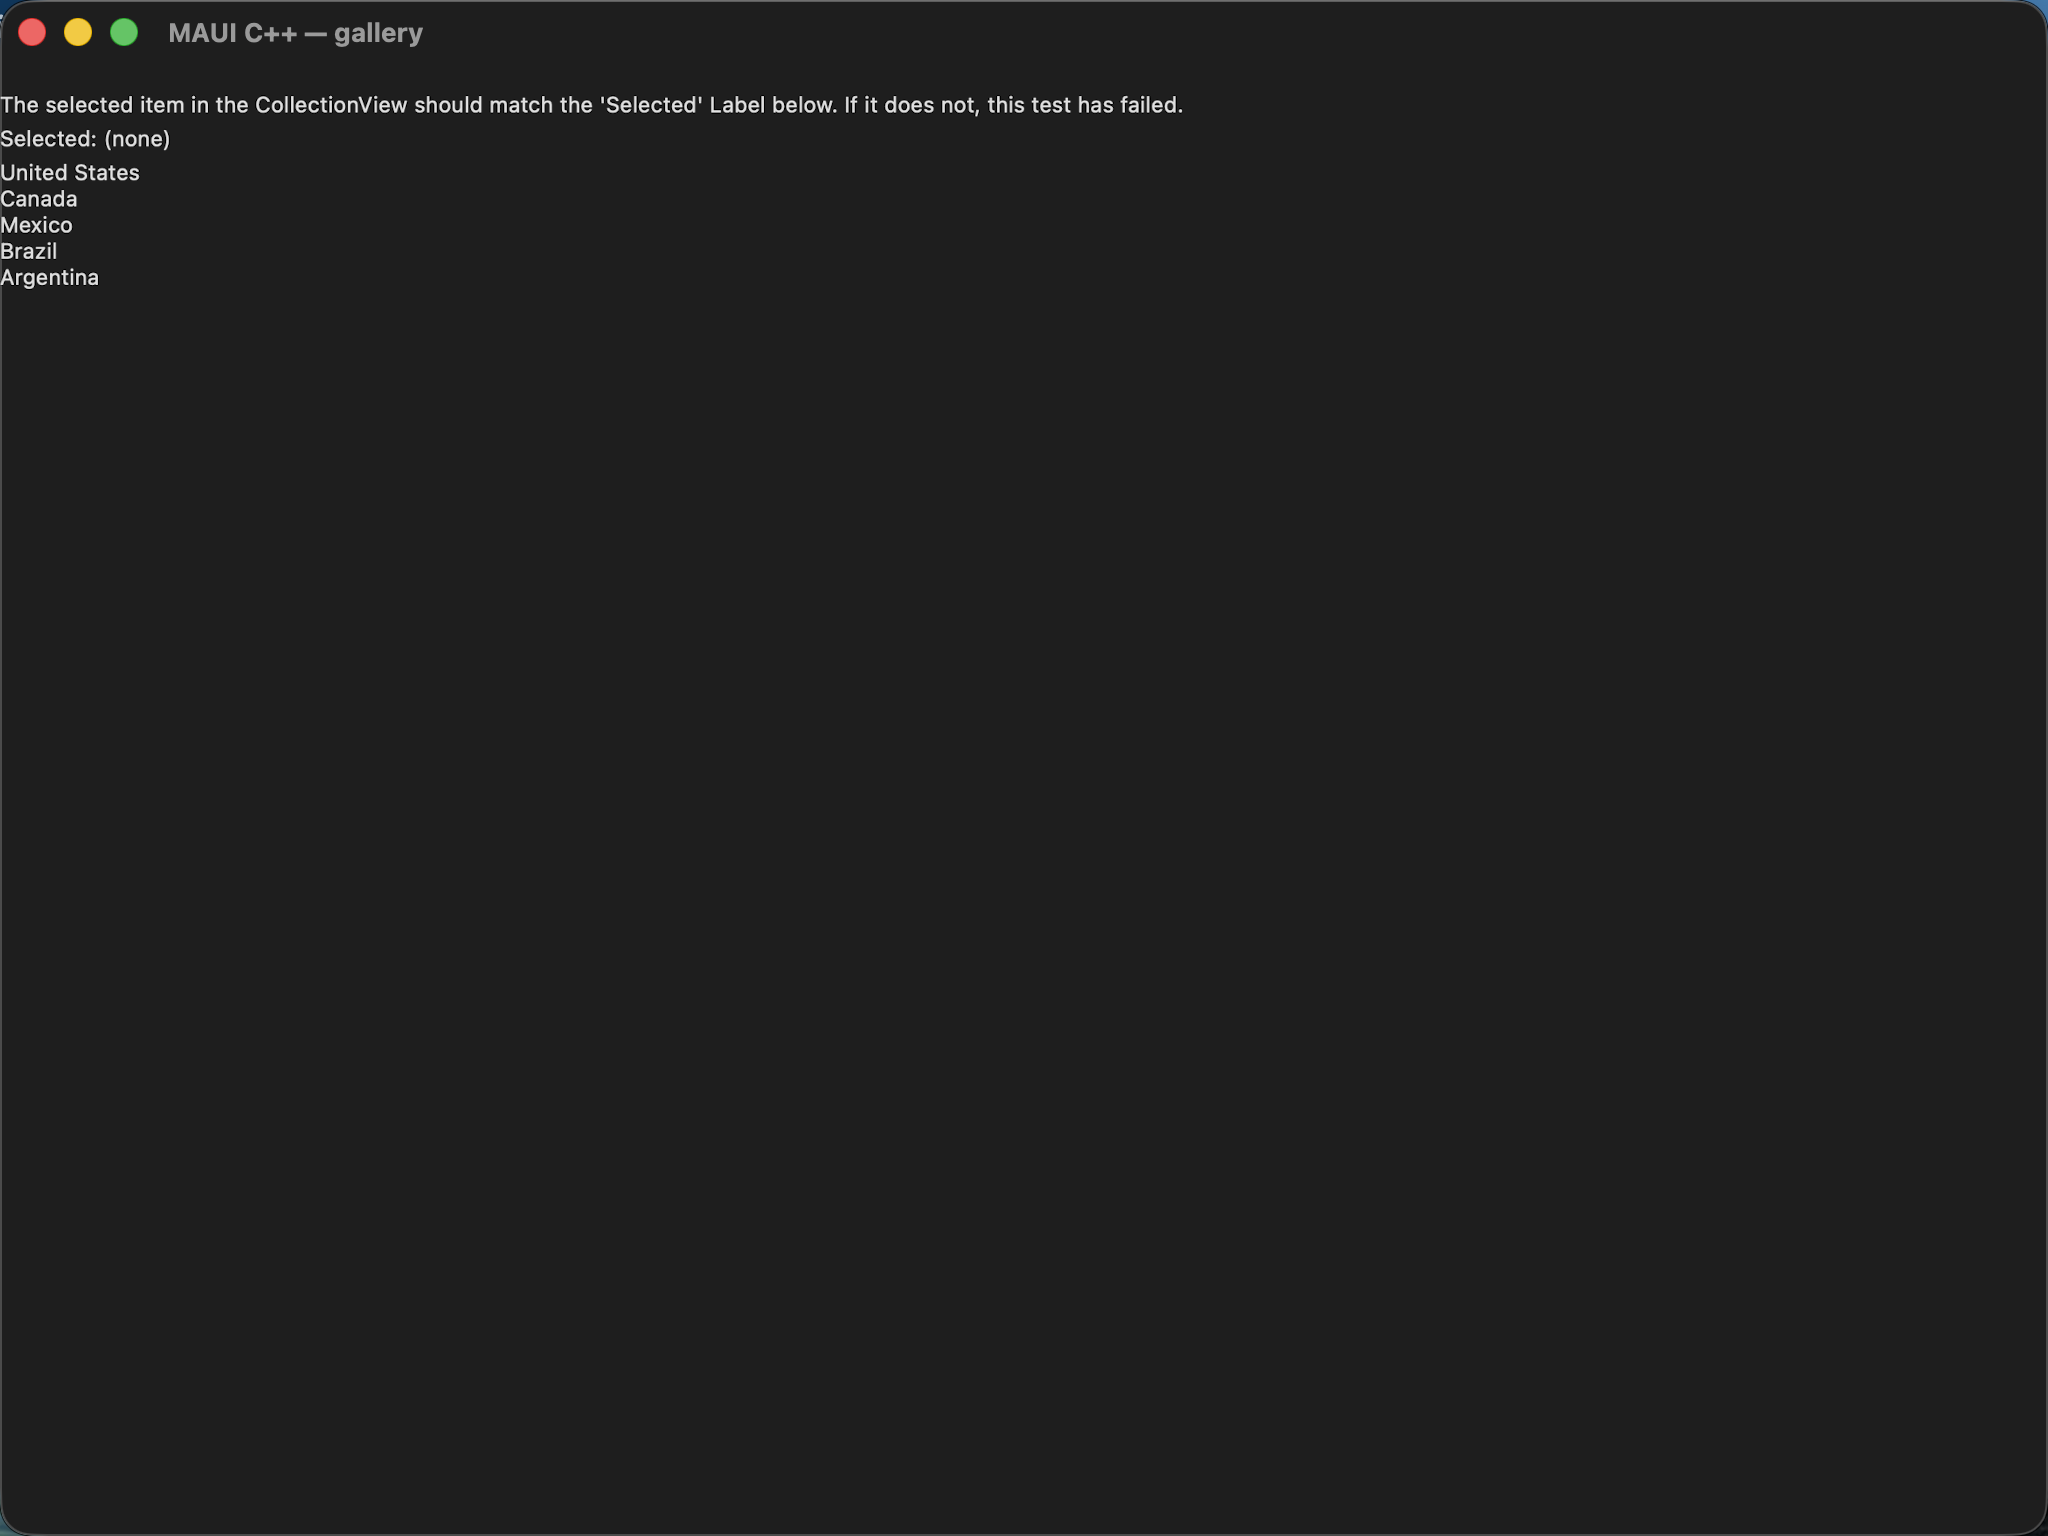
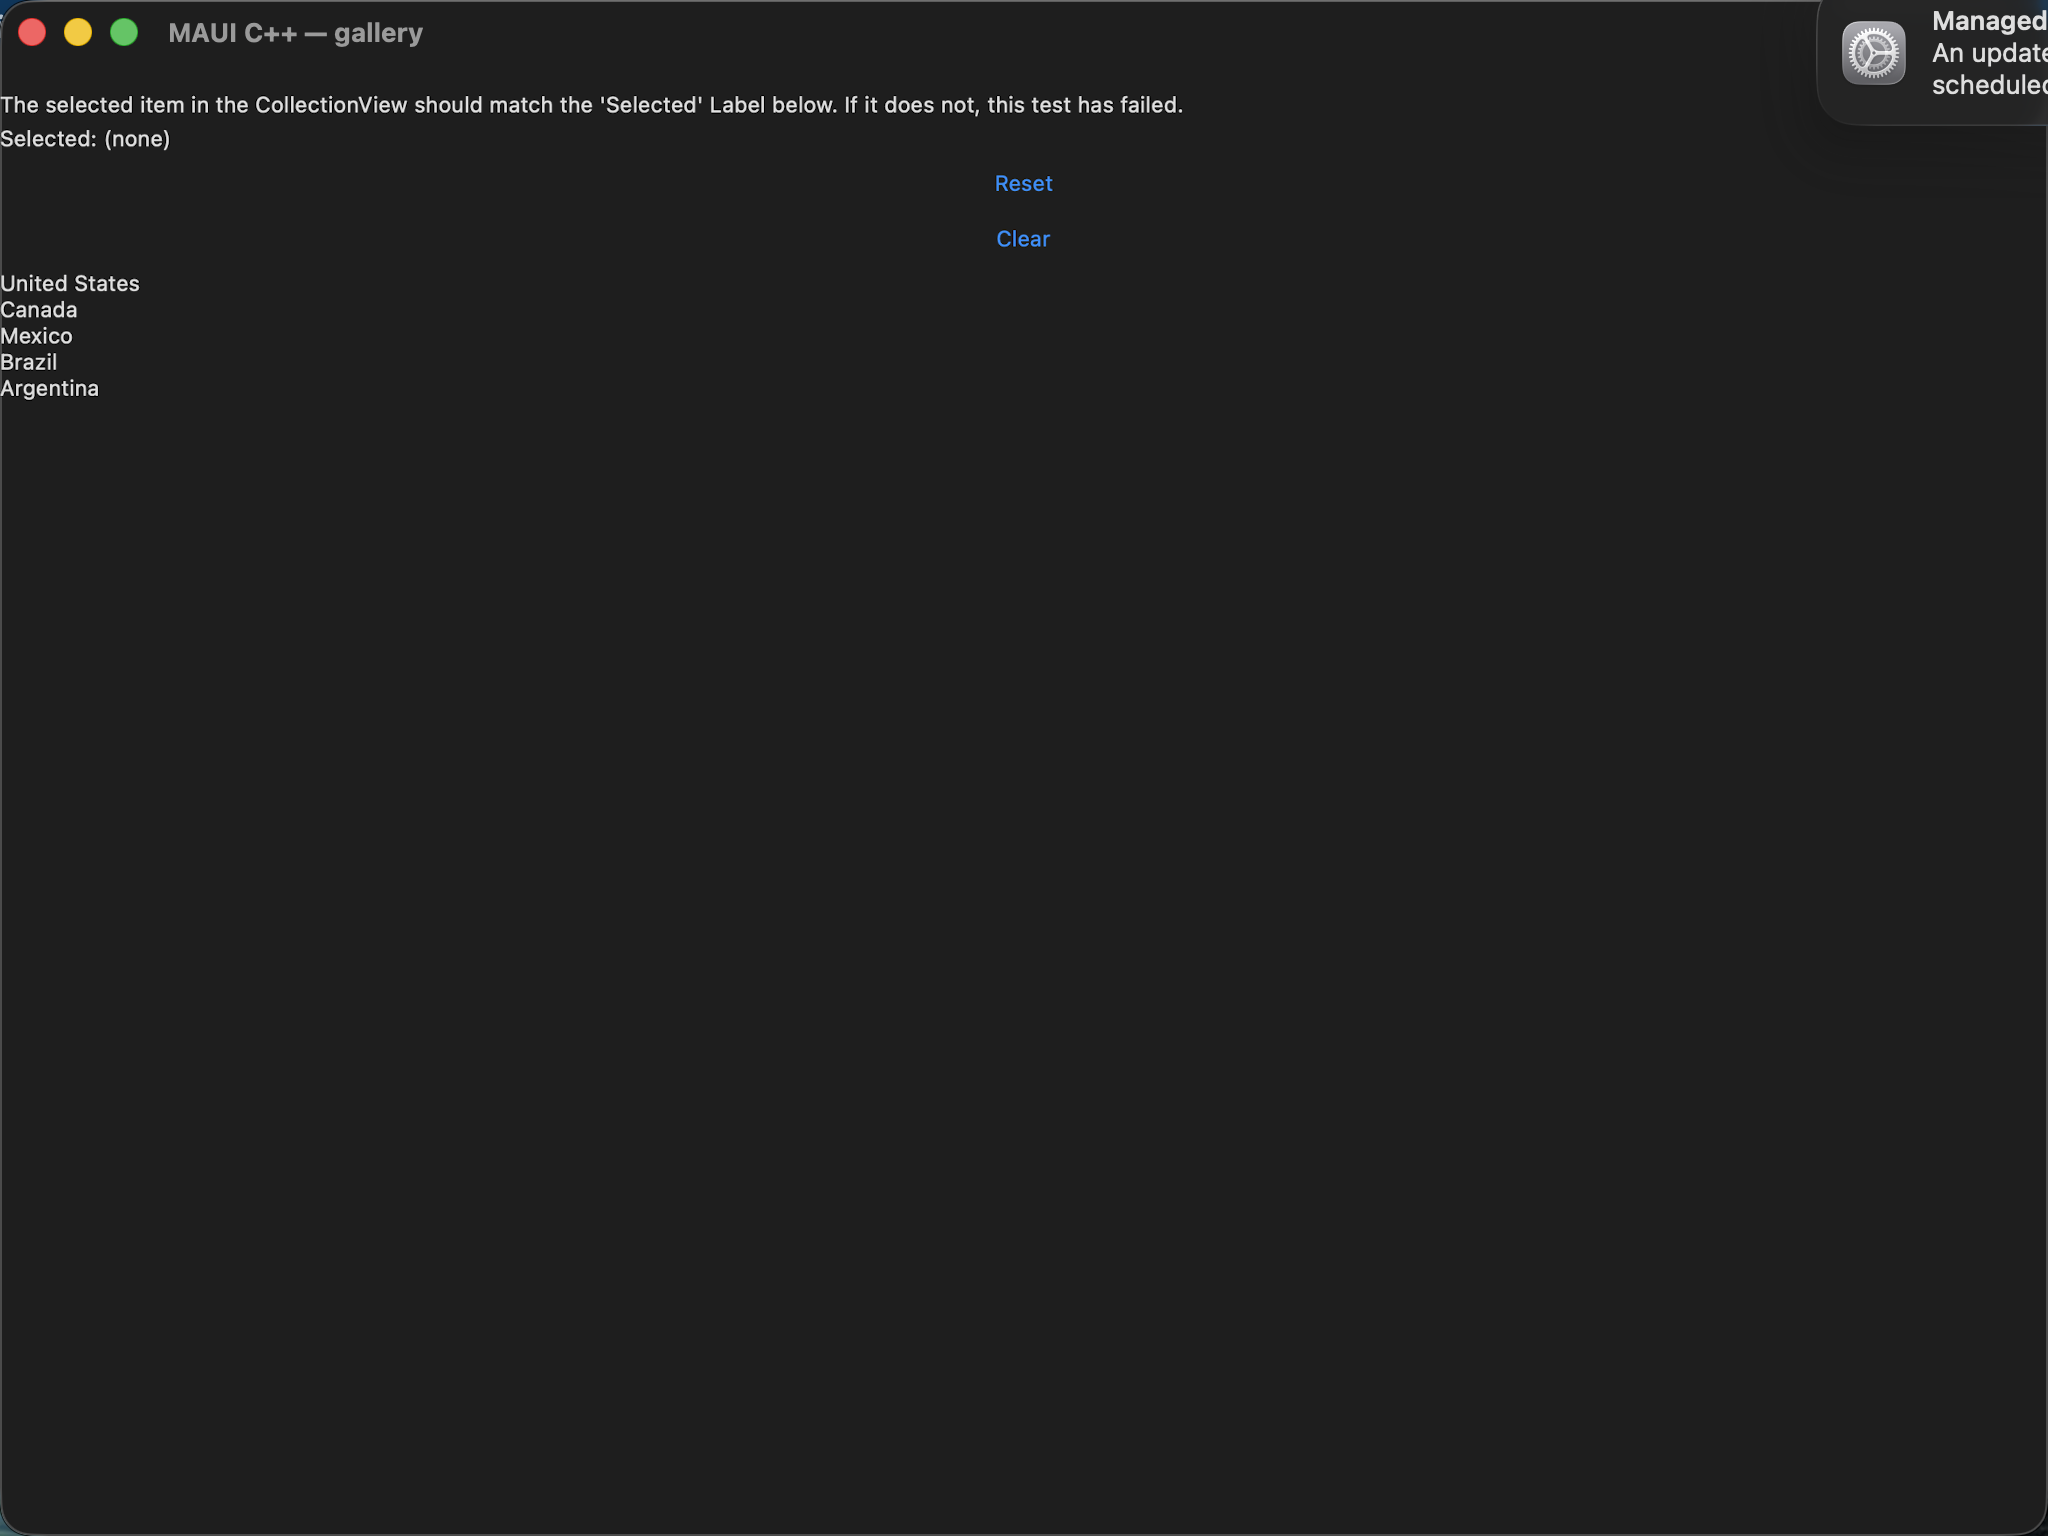
docs(comparison): single_bound_selection now green in both frameworks
cpp 81 green / 53 yellow / 41 red / 6 blank.

Changed region(s): [[0.0, 0.0938, 0.0625, 0.2812], [0.875, 0.0, 1.0, 0.0625], [0.4688, 0.0938, 0.5, 0.125]]

diff --git a/port/cpp/docs/comparison/README.md b/port/cpp/docs/comparison/README.md
@@ -3449,9 +3449,9 @@ _Not yet computed — no automated pixel-diff score is recorded for this page ye
 
 | Classification | Sonnet 5 | Gemini |
 | --- | --- | --- |
-| 🟢 Match | 80 | 0 |
+| 🟢 Match | 81 | 0 |
 | 🟡 Minor | 53 | 0 |
-| 🔴 Major | 42 | 0 |
+| 🔴 Major | 41 | 0 |
 | ⬛ Blank | 6 | 0 |
 | ⏳ Unreviewed | 0 | 181 |
 
@@ -6272,16 +6272,16 @@ _Not yet reviewed._
 
 _Not yet computed — no automated pixel-diff score is recorded for this page yet._
 
-### 150. Single Bound Selection — 🔴/⏳
+### 150. Single Bound Selection — 🟢/⏳
 <sub>single_bound_selection</sub>
 
 <table><tr><th></th><th>MAUI</th><th>C++</th><th>C++ &amp; XAML</th><th>AppKit / C++</th><th>AppKit / C++ &amp; XAML</th></tr><tr><th>Light</th><td><img width="300px" src="../../../maui-reference/captures/maccatalyst/single_bound_selection_light.png" /></td><td><img width="300px" src="captures/maccatalyst/cpp/single_bound_selection_light.png" /></td><td><img width="300px" src="captures/maccatalyst/xaml/single_bound_selection_light.png" /></td><td><img width="300px" src="captures/maccatalyst/appkit_cpp/single_bound_selection_light.png" /></td><td><img width="300px" src="captures/maccatalyst/appkit_xaml/single_bound_selection_light.png" /></td></tr><tr><th>Dark</th><td><img width="300px" src="../../../maui-reference/captures/maccatalyst/single_bound_selection_dark.png" /></td><td><img width="300px" src="captures/maccatalyst/cpp/single_bound_selection_dark.png" /></td><td><img width="300px" src="captures/maccatalyst/xaml/single_bound_selection_dark.png" /></td><td><img width="300px" src="captures/maccatalyst/appkit_cpp/single_bound_selection_dark.png" /></td><td><img width="300px" src="captures/maccatalyst/appkit_xaml/single_bound_selection_dark.png" /></td></tr></table>
 
 ports SingleBoundSelection.xaml (+ .xaml.cs) (Maui.Controls.Sample.Pages.CollectionViewGalleries.SelectionGalleries.SingleBoundSelection)
 
-#### 🔴 Sonnet 5 Review
+#### 🟢 Sonnet 5 Review
 
-C1/C3: the Reset and Clear buttons are entirely MISSING in the C++ port in both themes — MAUI shows both centered blue text buttons between the 'Selected: (none)' label and the country list. Instruction text, selected label and the five-country list otherwise match.
+C1/C3 (MAUI vs C++, light/dark): full match. Reset and Clear links now present (fix confirmed), list items (United States/Canada/Mexico/Brazil/Argentina), 'Selected: (none)' text, fonts, colors, and layout all match MAUI in both themes. Ignored the OS notification banner artifact in the cpp captures per instructions.
 
 #### ⏳ Gemini Review
 
